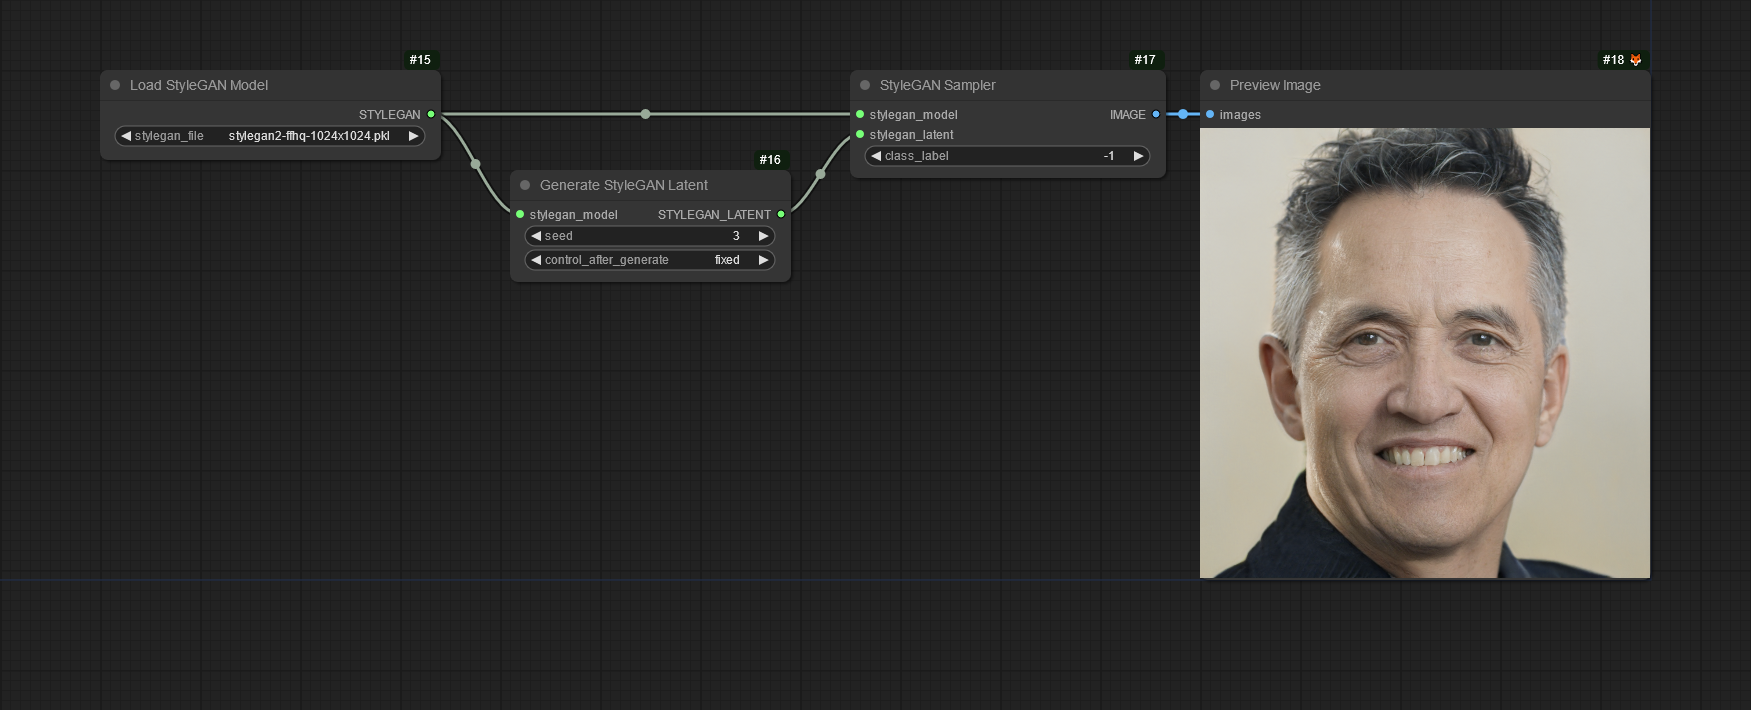
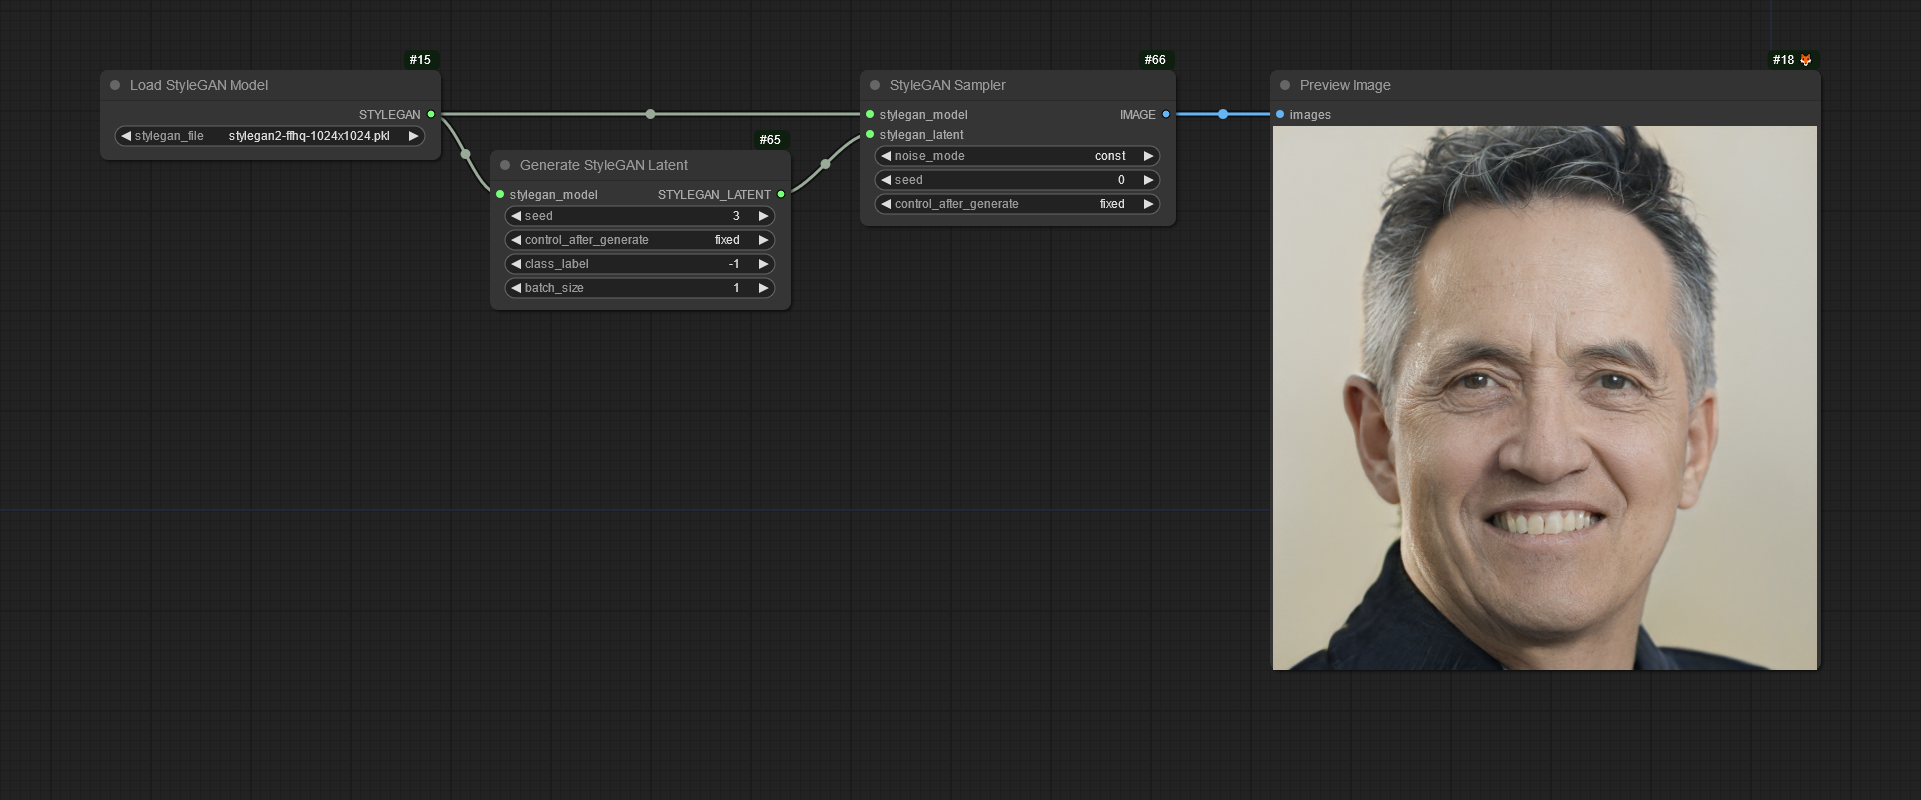
switched latent from z to w

diff --git a/nodes.py b/nodes.py
@@ -47,7 +47,9 @@ class GenerateStyleGANLatent:
             "required": {
                 "stylegan_model": ("STYLEGAN", ),
                 "seed": ("INT", {"default": 0, "min": 0, "max": 0xffffffffffffffff}),
+                "class_label": ("INT", {"default": -1, "min": -1}),
                 "batch_size": ("INT", {"default": 1, "min": 1, "max": 1024}),
+                
             },
         }
     
@@ -55,10 +57,17 @@ class GenerateStyleGANLatent:
     FUNCTION = "generate_latent"
     CATEGORY = "StyleGAN"
     
-    def generate_latent(self, stylegan_model, seed, batch_size):
+    def generate_latent(self, stylegan_model, seed, class_label, batch_size):
         torch.manual_seed(seed)
+        if class_label < 0:
+            class_label = None
+        
         z = torch.randn([batch_size, stylegan_model.z_dim]).cuda()
-        return (z, )
+        w = []
+        for i in range(batch_size):
+            w.append(stylegan_model.mapping(z[i].unsqueeze(0), class_label))
+        
+        return (torch.cat(w, dim=0), )
 
 class StyleGANSampler:
     @classmethod
@@ -67,7 +76,7 @@ class StyleGANSampler:
             "required": {
                 "stylegan_model": ("STYLEGAN", ),
                 "stylegan_latent": ("STYLEGAN_LATENT", ),
-                "class_label": ("INT", {"default": -1, "min": -1}),
+                # "class_label": ("INT", {"default": -1, "min": -1}),
                 "noise_mode": (['const', 'random'],),
                 "seed": ("INT", {"default": 0, "min": 0, "max": 0xffffffffffffffff}),
             },
@@ -77,19 +86,15 @@ class StyleGANSampler:
     FUNCTION = "generate_image"
     CATEGORY = "StyleGAN"
     
-    def generate_image(self, stylegan_model, stylegan_latent, class_label, noise_mode, seed):
+    def generate_image(self, stylegan_model, stylegan_latent, noise_mode, seed):
         torch.manual_seed(seed)
-        if class_label < 0:
-            class_label = None
-        
         imgs = []
         batch_size = stylegan_latent.size(0)
         pbar = None
         if PROGRESS_BAR_ENABLED and batch_size > 1:
             pbar = ProgressBar(batch_size)
         for i in trange(batch_size):
-            w = stylegan_model.mapping(stylegan_latent[i].unsqueeze(0), class_label)
-            img = stylegan_model.synthesis(w, noise_mode=noise_mode)
+            img = stylegan_model.synthesis(stylegan_latent[i].unsqueeze(0), noise_mode=noise_mode)
             img = torch.permute(img, (0, 2, 3, 1)) # BCHW -> BHWC
             img = torch.clip(img / 2 + 0.5, 0, 1)  # [-1, 1] -> [0, 1]
             imgs.append(img)
@@ -140,51 +145,11 @@ class BatchAverageStyleGANLatents:
     CATEGORY = "StyleGAN/extra"
     
     def generate_latent(self, stylegan_latent):
-        z = torch.mean(stylegan_latent, dim=0, keepdim=True)
-        std, mean = torch.std_mean(z)
-        z = (z - mean) / std
+        w = torch.mean(stylegan_latent, dim=0, keepdim=True)
+        std, mean = torch.std_mean(w)
+        w = (w - mean) / std
         
-        return (z, )
-
-class TweakStyleGANLatents:
-    @classmethod
-    def INPUT_TYPES(s):
-        return {
-            "required": {
-                "stylegan_latent": ("STYLEGAN_LATENT", ),
-                "index_1": ("INT", {"default": 0, "min": 0, "max": 511}),
-                "offset_1": ("FLOAT", {"default": 0.0, "min": -10.0, "max": 10.0, "step": 0.01}),
-                "index_2": ("INT", {"default": 1, "min": 0, "max": 511}),
-                "offset_2": ("FLOAT", {"default": 0.0, "min": -10.0, "max": 10.0, "step": 0.01}),
-                "index_3": ("INT", {"default": 2, "min": 0, "max": 511}),
-                "offset_3": ("FLOAT", {"default": 0.0, "min": -10.0, "max": 10.0, "step": 0.01}),
-                "index_4": ("INT", {"default": 3, "min": 0, "max": 511}),
-                "offset_4": ("FLOAT", {"default": 0.0, "min": -10.0, "max": 10.0, "step": 0.01}),
-            },
-        }
-    
-    RETURN_TYPES = ("STYLEGAN_LATENT",)
-    FUNCTION = "generate_latent"
-    CATEGORY = "StyleGAN/extra"
-    
-    def generate_latent(
-        self,
-        stylegan_latent,
-        index_1, offset_1,
-        index_2, offset_2,
-        index_3, offset_3,
-        index_4, offset_4,
-        ):
-        
-        z = stylegan_latent.detach().clone()
-        
-        indices = [index_1, index_2, index_3, index_4]
-        offsets = [offset_1, offset_2, offset_3, offset_4]
-        
-        for i in range(4):
-            z[:, indices[i]] += offsets[i]
-        
-        return (z, )
+        return (w, )
 
 class StyleGANLatentFromBatch:
     @classmethod
@@ -202,9 +167,9 @@ class StyleGANLatentFromBatch:
     
     def generate_latent(self, stylegan_latent, index):
         clipped_index = min(index, stylegan_latent.size(0) - 1)
-        z = stylegan_latent[clipped_index].unsqueeze(0).detach().clone()
+        w = stylegan_latent[clipped_index].unsqueeze(0).detach().clone()
         
-        return (z, )
+        return (w, )
 
 NODE_CLASS_MAPPINGS = {
     "LoadStyleGAN": LoadStyleGAN,
@@ -212,7 +177,6 @@ NODE_CLASS_MAPPINGS = {
     "StyleGANSampler": StyleGANSampler,
     "BlendStyleGANLatents": BlendStyleGANLatents,
     "BatchAverageStyleGANLatents": BatchAverageStyleGANLatents,
-    "TweakStyleGANLatents": TweakStyleGANLatents,
     "StyleGANLatentFromBatch": StyleGANLatentFromBatch,
 }
 
@@ -222,6 +186,5 @@ NODE_DISPLAY_NAME_MAPPINGS = {
     "StyleGANSampler": "StyleGAN Sampler",
     "BlendStyleGANLatents": "Blend StyleGAN Latents (lerp or slerp)",
     "BatchAverageStyleGANLatents": "Batch Average StyleGAN Latents",
-    "TweakStyleGANLatents": "Tweak StyleGAN Latents",
     "StyleGANLatentFromBatch": "StyleGAN Latent From Batch",
 }
